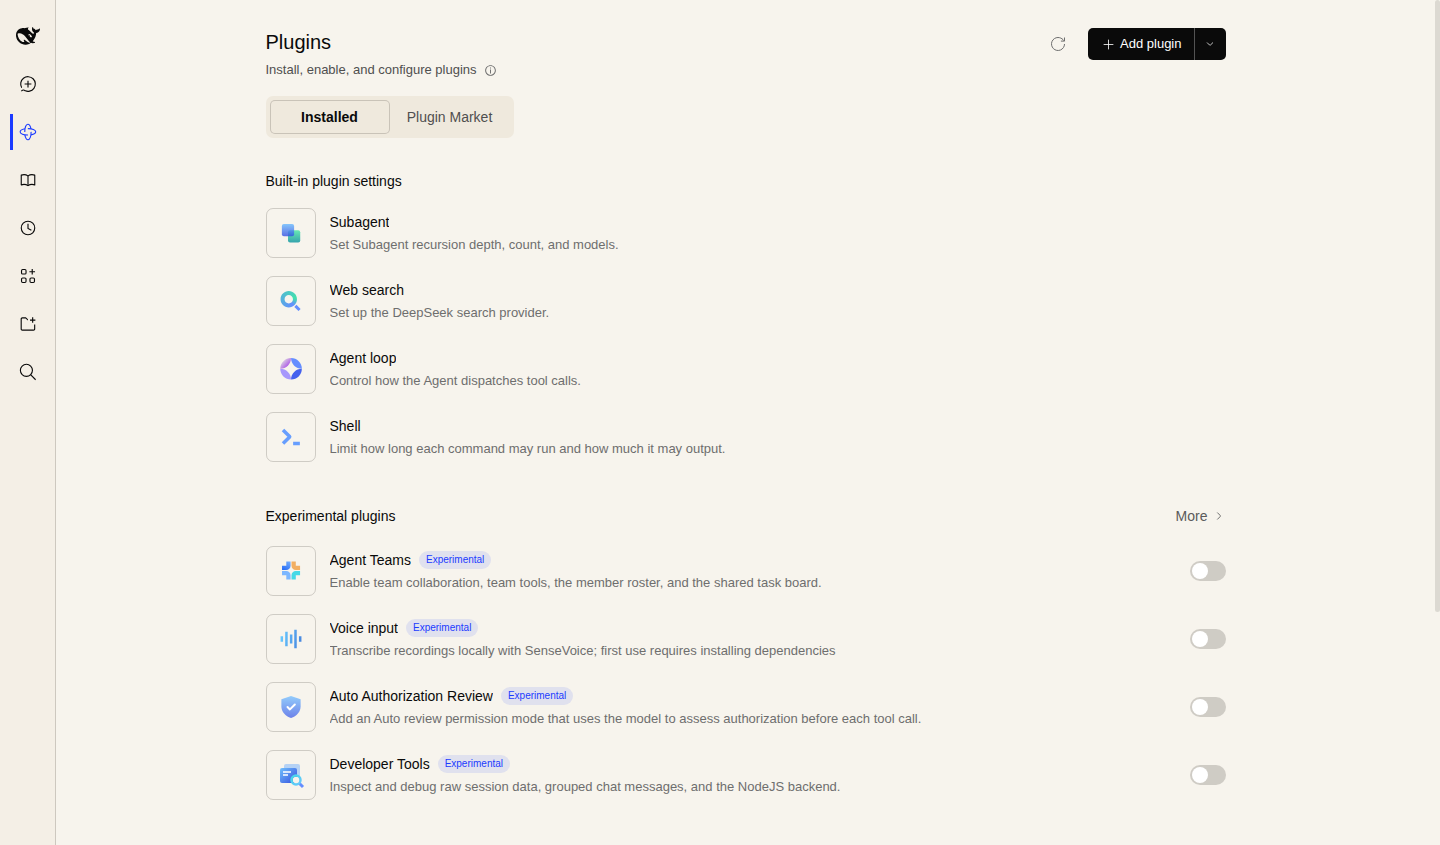
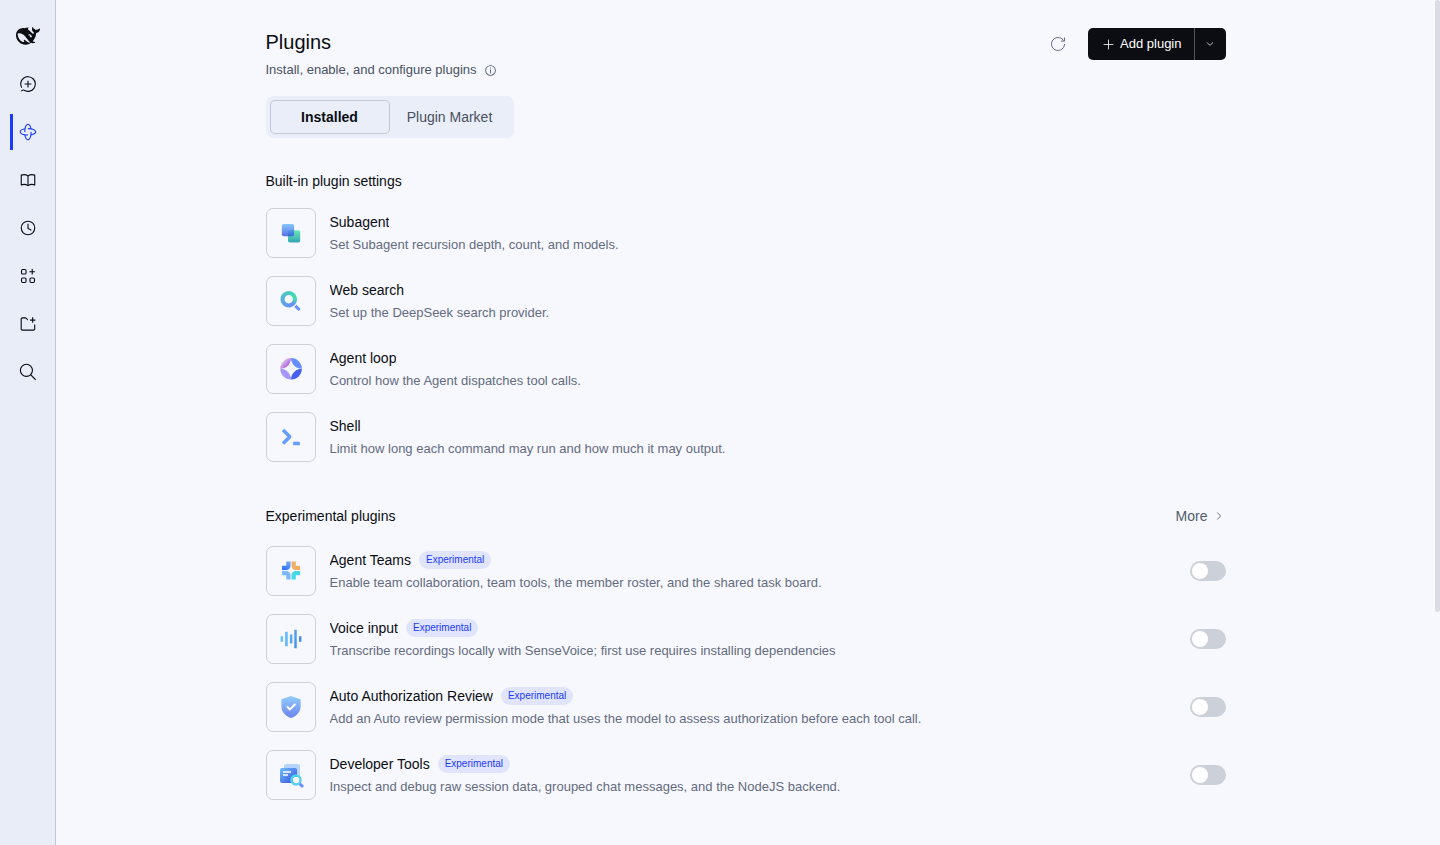
浅色去掉米黄改为冷白：主区 #F6F8FD、侧栏 #E8EDF8，v1.1.0

Changed region(s): [[0.1875, 0.0923, 0.375, 0.1846]]

diff --git a/client.js b/client.js
@@ -60,70 +60,70 @@ window.__ModuleLoader__.load({
     // ② 字面量别名：纸面、墨色、边框、代码块、侧栏
     Object.assign(TOKENS, {
       // 纸面：底色是暖白纸，卡片留在纯白，于是卡片像压在纸上
-      '--dsw-alias-bg-base': { light: '#f7f4ed', dark: '#0f1a35' },
-      '--dsw-alias-bg-layer-1': { light: '#fdfbf7', dark: '#15213f' },
-      '--dsw-alias-bg-layer-2': { light: '#fdfbf7', dark: '#15213f' },
-      '--dsw-alias-bg-layer-3': { light: '#efe9dd', dark: '#1e2b4b' },
-      '--dsw-alias-bg-overlay': { light: '#efe9dd', dark: '#1e2b4b' },
-      '--dsw-alias-bg-module-platform': { light: '#efe9dd', dark: '#1e2b4b' },
-      '--dsw-alias-bg-multi-select': { light: '#efe9dd', dark: '#1e2b4b' },
-      '--dsw-alias-bg-skeleton': { light: 'rgba(26, 22, 16, 0.06)', dark: 'rgba(232, 236, 248, 0.08)' },
+      '--dsw-alias-bg-base': { light: '#f6f8fd', dark: '#0f1a35' },
+      '--dsw-alias-bg-layer-1': { light: '#ffffff', dark: '#15213f' },
+      '--dsw-alias-bg-layer-2': { light: '#ffffff', dark: '#15213f' },
+      '--dsw-alias-bg-layer-3': { light: '#e9eef9', dark: '#1e2b4b' },
+      '--dsw-alias-bg-overlay': { light: '#e9eef9', dark: '#1e2b4b' },
+      '--dsw-alias-bg-module-platform': { light: '#e9eef9', dark: '#1e2b4b' },
+      '--dsw-alias-bg-multi-select': { light: '#e9eef9', dark: '#1e2b4b' },
+      '--dsw-alias-bg-skeleton': { light: 'rgba(18, 26, 48, 0.06)', dark: 'rgba(232, 236, 248, 0.08)' },
 
       // 墨色文字：主文墨黑，次级与三级灰各让出一档
-      '--dsw-alias-label-primary': { light: '#0a0a0a', dark: '#e8ecf8' },
-      '--dsw-alias-label-primary-bluish': { light: '#0a0a0a', dark: '#e8ecf8' },
-      '--dsw-alias-label-primary-dimmed': { light: '#0a0a0a', dark: '#e8ecf8' },
-      '--dsw-alias-label-secondary': { light: '#4f4f4f', dark: '#a8b0cc' },
-      '--dsw-alias-label-tertiary': { light: '#6e6e6e', dark: '#7c86a8' },
-      '--dsw-alias-label-caption': { light: '#6e6e6e', dark: '#7c86a8' },
+      '--dsw-alias-label-primary': { light: '#0b0d12', dark: '#e8ecf8' },
+      '--dsw-alias-label-primary-bluish': { light: '#0b0d12', dark: '#e8ecf8' },
+      '--dsw-alias-label-primary-dimmed': { light: '#0b0d12', dark: '#e8ecf8' },
+      '--dsw-alias-label-secondary': { light: '#4a5160', dark: '#a8b0cc' },
+      '--dsw-alias-label-tertiary': { light: '#646b7e', dark: '#7c86a8' },
+      '--dsw-alias-label-caption': { light: '#646b7e', dark: '#7c86a8' },
       '--dsw-alias-label-dimmed': { light: 'rgba(10, 10, 10, 0.45)', dark: 'rgba(232, 236, 248, 0.45)' },
 
       // 品牌黑：主按钮与强调文字仍是墨色，蓝色只做标记
-      '--dsw-alias-brand-primary': { light: '#0a0a0a', dark: '#e8ecf8' },
-      '--dsw-alias-brand-primary-invert': { light: '#0a0a0a', dark: '#e8ecf8' },
-      '--dsw-alias-brand-text': { light: '#0a0a0a', dark: '#e8ecf8' },
-      '--dsw-alias-button-primary-fill': { light: '#0a0a0a', dark: '#e8ecf8' },
-      '--dsw-alias-button-primary-hover': { light: '#262626', dark: '#d3daee' },
+      '--dsw-alias-brand-primary': { light: '#0b0d12', dark: '#e8ecf8' },
+      '--dsw-alias-brand-primary-invert': { light: '#0b0d12', dark: '#e8ecf8' },
+      '--dsw-alias-brand-text': { light: '#0b0d12', dark: '#e8ecf8' },
+      '--dsw-alias-button-primary-fill': { light: '#0b0d12', dark: '#e8ecf8' },
+      '--dsw-alias-button-primary-hover': { light: '#1f2330', dark: '#d3daee' },
       '--dsw-alias-button-info-fill': { light: '#1b3bff', dark: '#1b3bff' },
       '--dsw-alias-button-info-hover': { light: '#1428e1', dark: '#3564ff' },
 
       // 发丝线：暖灰，不用纯黑半透明，否则暖纸底上会发脏
-      '--dsw-alias-border-l1': { light: 'rgba(26, 22, 16, 0.08)', dark: 'rgba(232, 236, 248, 0.08)' },
-      '--dsw-alias-border-l2': { light: 'rgba(26, 22, 16, 0.12)', dark: 'rgba(232, 236, 248, 0.12)' },
-      '--dsw-alias-border-l2-darkmode-thin': { light: 'rgba(26, 22, 16, 0.12)', dark: 'rgba(232, 236, 248, 0.08)' },
-      '--dsw-alias-border-l3': { light: 'rgba(26, 22, 16, 0.18)', dark: 'rgba(232, 236, 248, 0.18)' },
-      '--dsw-alias-border-l4': { light: 'rgba(26, 22, 16, 0.26)', dark: 'rgba(232, 236, 248, 0.26)' },
+      '--dsw-alias-border-l1': { light: 'rgba(18, 26, 48, 0.08)', dark: 'rgba(232, 236, 248, 0.08)' },
+      '--dsw-alias-border-l2': { light: 'rgba(18, 26, 48, 0.12)', dark: 'rgba(232, 236, 248, 0.12)' },
+      '--dsw-alias-border-l2-darkmode-thin': { light: 'rgba(18, 26, 48, 0.12)', dark: 'rgba(232, 236, 248, 0.08)' },
+      '--dsw-alias-border-l3': { light: 'rgba(18, 26, 48, 0.18)', dark: 'rgba(232, 236, 248, 0.18)' },
+      '--dsw-alias-border-l4': { light: 'rgba(18, 26, 48, 0.26)', dark: 'rgba(232, 236, 248, 0.26)' },
 
       // 代码块：比纸面再沉一档，仍属同一族暖灰
-      '--dsw-alias-markdown-code-block': { light: '#f2f0eb', dark: '#0a132b' },
-      '--dsw-alias-markdown-code-block-banner': { light: '#e9e6df', dark: '#121c38' },
-      '--dsw-alias-markdown-inline-code': { light: '#f2f0eb', dark: '#0a132b' },
-      '--dsw-alias-markdown-code-segment-selected': { light: '#e9e6df', dark: '#121c38' },
-      '--dsw-alias-markdown-code-segment-unselected': { light: '#f2f0eb', dark: '#0a132b' },
+      '--dsw-alias-markdown-code-block': { light: '#f2f4fa', dark: '#0a132b' },
+      '--dsw-alias-markdown-code-block-banner': { light: '#e8ecf6', dark: '#121c38' },
+      '--dsw-alias-markdown-inline-code': { light: '#f2f4fa', dark: '#0a132b' },
+      '--dsw-alias-markdown-code-segment-selected': { light: '#e8ecf6', dark: '#121c38' },
+      '--dsw-alias-markdown-code-segment-unselected': { light: '#f2f4fa', dark: '#0a132b' },
 
       // 业务状态色：这里就是信号蓝出现的地方
       '--dsw-alias-state-business-primary': { light: '#1b3bff', dark: '#7aa3ff' },
       '--dsw-alias-state-business-tertiary': { light: 'rgba(27, 59, 255, 0.10)', dark: 'rgba(122, 163, 255, 0.14)' },
 
       // 侧栏、菜单、气泡：跟纸面同族，避免蓝色系的中性色混进来
-      '--dsw-specific-sidebar-fill': { light: '#f4efe6', dark: '#0b142d' },
-      '--dsw-specific-sidebar-nav-item-active': { light: 'rgba(26, 22, 16, 0.06)', dark: 'rgba(232, 236, 248, 0.06)' },
+      '--dsw-specific-sidebar-fill': { light: '#e8edf8', dark: '#0b142d' },
+      '--dsw-specific-sidebar-nav-item-active': { light: 'rgba(18, 26, 48, 0.06)', dark: 'rgba(232, 236, 248, 0.06)' },
       '--dsw-specific-sidebar-nav-item-active-accent': { light: 'rgba(27, 59, 255, 0.12)', dark: 'rgba(122, 163, 255, 0.14)' },
-      '--dsw-specific-sidebar-nav-item-hover': { light: 'rgba(26, 22, 16, 0.05)', dark: 'rgba(232, 236, 248, 0.05)' },
-      '--dsw-specific-menu': { light: '#fdfbf7', dark: '#15213f' },
-      '--dsw-specific-bubble': { light: '#f2f0eb', dark: '#15213f' },
-      '--dsw-specific-input-major': { light: '#fdfbf7', dark: '#15213f' },
+      '--dsw-specific-sidebar-nav-item-hover': { light: 'rgba(18, 26, 48, 0.05)', dark: 'rgba(232, 236, 248, 0.05)' },
+      '--dsw-specific-menu': { light: '#ffffff', dark: '#15213f' },
+      '--dsw-specific-bubble': { light: '#f2f4fa', dark: '#15213f' },
+      '--dsw-specific-input-major': { light: '#ffffff', dark: '#15213f' },
       '--dsw-specific-selector': { light: '#f0eee9', dark: '#1e2b4b' },
       '--dsw-specific-tip': { light: '#f0eee9', dark: '#1e2b4b' },
-      '--dsw-alias-interactive-bg-hover': { light: 'rgba(26, 22, 16, 0.06)', dark: 'rgba(232, 236, 248, 0.06)' },
-      '--dsw-alias-interactive-bg-active': { light: 'rgba(26, 22, 16, 0.10)', dark: 'rgba(232, 236, 248, 0.10)' },
+      '--dsw-alias-interactive-bg-hover': { light: 'rgba(18, 26, 48, 0.06)', dark: 'rgba(232, 236, 248, 0.06)' },
+      '--dsw-alias-interactive-bg-active': { light: 'rgba(18, 26, 48, 0.10)', dark: 'rgba(232, 236, 248, 0.10)' },
       '--dsw-alias-interactive-bg-hover-accent': { light: 'rgba(27, 59, 255, 0.10)', dark: 'rgba(122, 163, 255, 0.12)' },
 
       // 滚动条：纸面里的低对比灰
-      '--dsw-alias-scrollbar-bg-l1': { light: 'rgba(26, 22, 16, 0.12)', dark: 'rgba(232, 236, 248, 0.12)' },
-      '--dsw-alias-scrollbar-bg-l2': { light: 'rgba(26, 22, 16, 0.12)', dark: 'rgba(232, 236, 248, 0.12)' },
-      '--dsw-alias-scrollbar-hover-l1': { light: 'rgba(26, 22, 16, 0.22)', dark: 'rgba(232, 236, 248, 0.22)' },
-      '--dsw-alias-scrollbar-hover-l2': { light: 'rgba(26, 22, 16, 0.22)', dark: 'rgba(232, 236, 248, 0.22)' },
+      '--dsw-alias-scrollbar-bg-l1': { light: 'rgba(18, 26, 48, 0.12)', dark: 'rgba(232, 236, 248, 0.12)' },
+      '--dsw-alias-scrollbar-bg-l2': { light: 'rgba(18, 26, 48, 0.12)', dark: 'rgba(232, 236, 248, 0.12)' },
+      '--dsw-alias-scrollbar-hover-l1': { light: 'rgba(18, 26, 48, 0.22)', dark: 'rgba(232, 236, 248, 0.22)' },
+      '--dsw-alias-scrollbar-hover-l2': { light: 'rgba(18, 26, 48, 0.22)', dark: 'rgba(232, 236, 248, 0.22)' },
     })
 
     /**

diff --git a/README.md b/README.md
@@ -8,7 +8,7 @@
 
 ## 效果
 
-浅色（1440 宽，侧栏已折叠）：
+浅色是冷白纸 + 淡蓝侧栏（1440 宽，侧栏已折叠）：
 
 ![浅色模式](assets/preview-light.png)
 
@@ -82,10 +82,10 @@ dsh plugin --profile web remove dsh-signal-blue-theme
 
 | 令牌 | 浅色 | 深色 | 用在哪 |
 |---|---|---|---|
-| 纸面 | `#F7F4ED` | `#0F1A35` | 主区底色 |
-| 侧栏 | `#F4EFE6` | `#0B142D` | 侧栏、平台底 |
-| 墨色 | `#0A0A0A` | `#E8ECF8` | 标题与正文 |
-| 次级文字 | `#4F4F4F` | `#A8B0CC` | 次级、元信息 |
+| 纸面 | `#F6F8FD` | `#0F1A35` | 主区底色 |
+| 侧栏 | `#E8EDF8` | `#0B142D` | 侧栏、平台底 |
+| 墨色 | `#0B0D12` | `#E8ECF8` | 标题与正文 |
+| 次级文字 | `#4A5160` | `#A8B0CC` | 次级、元信息 |
 | 信号蓝 | `#1B3BFF` | `#7AA3FF` | 链接、编号、选中态、状态点 |
 
 发布页（`dsh-signal-blue.html`）用同一套强调色，纸色取 `#FAFAF8`——那页是静态文档，底色要更接近白纸。
